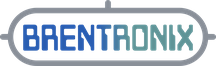
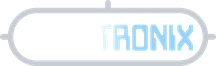
02.02.003: Place the white/light-blue BRENTRONIX set on dark and navy headers
The 25 Nov 10:10 CT whiteblue palette is used only on dark and navy backgrounds.  The black menustrip pill and the PipeCAD merge header pill sit on #000 / #1f3a5f with the outline-only whiteblue pill and light-grey / light-blue byline colours.  App icons, marks, light-background art, and print-on-white files stay on the navy/teal pack.  Revision 02.02.003_261125, service-worker cache masd-field-report-02-02-003.

diff --git a/index.html b/index.html
@@ -3,7 +3,7 @@
 <head>
 <meta charset="utf-8">
 <meta name="viewport" content="width=device-width,initial-scale=1,viewport-fit=cover">
-<title>ModuLaser MASD — Field Report 02.02.002</title>
+<title>ModuLaser MASD — Field Report 02.02.003</title>
 <meta name="description" content="Offline commissioning worksheet for Edwards ModuLaser Modular Aspirating Smoke Detector installations.">
 <link rel="manifest" href="manifest.json">
 <meta name="theme-color" content="#0b0e12">
@@ -287,8 +287,8 @@ body{--sb:250px;--rp:310px}
 .menustrip{display:flex;align-items:center;gap:14px;padding:3px 12px;background:#000;color:#fff;border-bottom:1px solid #2a3441;min-height:32px}
 .bx-brand{display:flex;align-items:center;gap:8px;margin-left:12px;min-width:0}
 .bx-pill{height:22px;width:auto;display:block}
-.bx-meta{display:flex;flex-direction:row;flex-wrap:wrap;gap:6px;font-size:9px;line-height:1.2;color:#8A9099;white-space:nowrap}
-.bx-tag{color:#4F9F9F}
+.bx-meta{display:flex;flex-direction:row;flex-wrap:wrap;gap:6px;font-size:9px;line-height:1.2;color:#C8CDD4;white-space:nowrap}
+.bx-tag{color:#9CD3F5}
 .rt .rt-bx{height:28px;width:auto;margin-left:auto}
 
 .brand{display:flex;align-items:center;gap:8px;font-weight:700;font-size:13px;white-space:nowrap}
@@ -3017,6 +3017,7 @@ AMENDMENTS.push({ rev: "000", major: "02", minor: "01", date: "261016", desc: "P
 AMENDMENTS.push({ rev: "000", major: "02", minor: "02", date: "261019", desc: "Harmonized with Battery Calculator 02.02.000; Report: part-number basis dialog on brand mismatch, ASD-160 sheet (PipeCAD limits, Remote config levels, transport +20 %, benchmark test point), FACU checkbox under the FACU field. <b>Brand selector (Edwards | Kidde Commercial)</b> — project-level, first in Project information; part numbers, supply labels, BOM, logos and report titles follow the brand; the remembered default seeds new projects. Per-sheet supply <b>variant</b> (120 V / 220–230 V / ULC), tamper and seismic accessories, and <b>FACU powers these ASDs</b> with a power-source prompt (in-house / third-party / unidentified; unidentified makes the sheet Incomplete). <b>ASD-160 (Micra25 / Senator 25)</b> rows in the ASD table: 250 mA, dedicated AUX circuit, networked address 1–127, PipeCAD .pl import (MICRA25), Remote configuration, UL/non-UL alarm-factor rules (1.28 cap on UL SFD/OAP, R-AF7). Battery 12V6A5 (7.2 Ah) is manual-only with a too-small advisory. AUX/ribbon rules: max 4 AUX per power supply; each ribbon run holds max 4 detectors + 1 display; a detector-started run counts that detector; hybrid clusters may have any number of runs; own-AUX modules are not runs. Help revised with current screenshots; new printable Quick Start (Help ▸ Print Quick Start). MLP 1.6.0, engine 1.2.0. Unidentified power source rolls fully to ⚠ Incomplete: blank “Power source identified” item on every power supply sheet, amber banner with Identify power source…, carried from design.psus[].powerSource on import. Help, How do I and FAQ topics: brand, part-number basis, ASD-160 commissioning, FACU power source. About lists Edwards and Kidde Commercial, MiniLaser and ASD-160. `src/rp-0202.js` is an exact copy of the inline layer (tested); the old assembler is retired. Unidentified power source rolls fully to ⚠ Incomplete: blank “Power source identified” item on every power supply sheet, amber banner with Identify power source…, carried from design.psus[].powerSource on import. Help, How do I and FAQ topics: brand, part-number basis, ASD-160 commissioning, FACU power source. About lists Edwards and Kidde Commercial, MiniLaser and ASD-160. `src/rp-0202.js` is an exact copy of the inline layer (tested); the old assembler is retired. Unidentified power source rolls fully to ⚠ Incomplete: blank “Power source identified” item on every power supply sheet, amber banner with Identify power source…, carried from design.psus[].powerSource on import. Help, How do I and FAQ topics: brand, part-number basis, ASD-160 commissioning, FACU power source. About lists Edwards and Kidde Commercial, MiniLaser and ASD-160. `src/rp-0202.js` is an exact copy of the inline layer (tested); the old assembler is retired. Unidentified power source rolls fully to ⚠ Incomplete: blank “Power source identified” item on every power supply sheet, amber banner with Identify power source…, carried from design.psus[].powerSource on import. Help, How do I and FAQ topics: brand, part-number basis, ASD-160 commissioning, FACU power source. About lists Edwards and Kidde Commercial, MiniLaser and ASD-160. `src/rp-0202.js` is an exact copy of the inline layer (tested); the old assembler is retired." });
 AMENDMENTS.push({ rev: "001", major: "02", minor: "02", date: "261020", desc: "Harmonized with Battery Calculator 02.02.001 / Toolbox 00.03.001. <b>SFD/OAP design target</b> (Brent 2026-10-20 6:39–6:49 AM CT: “SFD/OAP for Engineering Toolbox must be revised from 2.5% obs/ft to 2.0% obs/ft. Make this the target for any UL-driven SFD or OAP requirement. FM and other non-UL targets can remain at 2.5% obs/ft. Allow toolbox a means of adjusting the default % obs/ft to different values for SFD for baseline configurations that apply project-wide but remain within the published limits of the respective detector.” · “UL limit is 1.71% to 2.18%. Target 2.0% for practical purposes.” · “Adjustable for FM too.” · “Allow per-Area/Group overrides too.” · “Yes, for projects requiring UL compliance. All others can remain at 2.5% by default.” · “Reject it with a message.” · “Yes, require a reference and initials.” · “Fold it into 02.02.001.”): the SFD/OAP design target is 2.0 %obs/ft for UL-driven scopes and 2.5 %obs/ft for FM and other standards; adjustable project-wide and per Area/Group (UL and FM), within each detector's published limits (UL: ModuLaser and MiniLaser 1.70–2.18; FM: ModuLaser and MiniLaser ≤2.50, ASD-160 ≤3.5; the ASD-160 UL 1.28 cap always governs). Out-of-range or non-numeric entries are rejected with a message, never clamped; a non-default target needs a reference and the engineer's initials. On UL scopes the SFD Fire 1 seed follows the target; otherwise it stays 2.5. Pass/fail is unchanged (UL Open Area 1.70–2.18 %obs/ft, ≤43 s; FM 3230 ≤2.50, ≤120 s). Older projects adopt the default with a one-time notice. modulaser-project.js 1.6.1. The Report reads the target and limits from the linked design; MiniLaser, ASD-160 and hole pass/fail are unchanged. The Rev10 legacy sheet is unchanged (its FM 2.50 / UL 1.70–2.18 text is reference only). Then (Brent 2026-10-20 7:09 AM CT): “Keep 1.70, per the manual” (UL lower limit unchanged) and “Yes, follow the target”: the MiniLaser alarm-factor rule for SFD and OAP now uses the scope's SFD/OAP target (Area/Group override → project → default; UL default 2.0, FM default 2.5) instead of a fixed 2.18 (OAP) / 2.0 (SFD). FM targets accepted up to 2.50 inclusive. modulaser-project.js 1.6.2. QA SFD/OAP delta: a stored out-of-range target (hand-edited or imported) stays flagged and blocks export, but the Fire 1 seed and the MiniLaser alarm factor use the nearest published limit instead; the one-time notice also shows in the Calculator and the Report; the Report validates the target against the linked design's device kinds (an FM project with only ASD-160s may use up to 3.5 without a false deficiency). modulaser-project.js 1.6.3." });
 AMENDMENTS.push({ rev: "002", major: "02", minor: "02", date: "261109", desc: "Harmonized with Battery Calculator 02.02.002 / Toolbox 00.03.002. Assumed-display badge and Confirm / Replace / Not installed actions (MLP 1.7.1: same-named floors in one .pl keyed ‘ #2’, ‘ #3’…; the .pl Displays gate counts each such floor separately). Field Change / As-Built uses job-local time zone (project.timeZone). Schema v1." });
+AMENDMENTS.push({ rev: "003", major: "02", minor: "02", date: "261125", desc: "White/light-blue BRENTRONIX set on dark and navy headers (25 Nov 2026, 10:10 AM CT).  The black menustrip pill and the PipeCAD merge header pill sit on #000 / #1f3a5f with the outline-only whiteblue pill and light-grey / light-blue byline colours.  App icons, marks, light-background art, and print-on-white files stay on the navy/teal pack.  Service-worker cache masd-field-report-02-02-003." });
 TYPES.min = 'Minimum Display Module'; TYPE_SHORT.min = 'Min Display';
 const TYPE_FROM_DESIGN = { 'Detector': 'det', 'Standard Display': 'std', 'Minimum Display': 'min', 'Command Display': 'cmd', 'MiniLaser': 'ml' };
 const TYPE_TO_DESIGN = { det: 'Detector', std: 'Standard Display', min: 'Minimum Display', cmd: 'Command Display', oth: 'Other', ml: 'MiniLaser' };

diff --git a/pl-merge.html b/pl-merge.html
@@ -28,8 +28,8 @@ button,input{font:inherit;color:inherit}
 .bar-in{max-width:960px;margin:0 auto;padding:10px 16px;display:flex;flex-wrap:wrap;gap:8px 14px;align-items:center}
 .bx-logo{height:32px;width:auto;display:block}
 .bx-head{flex:1 1 260px;min-width:0}
-.bx-meta{font-size:10px;color:#A0A6AE;margin-top:2px}
-.bx-tag{color:#4DBCB0;margin-left:6px}
+.bx-meta{font-size:10px;color:#C8CDD4;margin-top:2px}
+.bx-tag{color:#9CD3F5;margin-left:6px}
 .bar h1{font-size:15px;margin:0;font-weight:700;flex:1 1 260px}
 .bar h1 small{display:block;font-weight:500;opacity:.8;font-size:12px}
 .bar a{color:#fff;font-size:13px;font-weight:600}

diff --git a/sw.js b/sw.js
@@ -1,6 +1,6 @@
 // Edwards ModuLaser MASD Field Report — service worker
 // Bump CACHE_NAME whenever the app shell changes so clients pick up the update.
-const CACHE_NAME = 'masd-field-report-02-02-002';
+const CACHE_NAME = 'masd-field-report-02-02-003';
 const SHELL = [
   './',
   './index.html', './pl-merge.html',

diff --git a/tests/rp_0202_test.py b/tests/rp_0202_test.py
@@ -16,7 +16,7 @@ async def main():
     ok('How do I: brand, ASD-160, power source', all(any(k in t for t in h['q']) for k in ['change the brand','commission an ASD-160','power source not identified']))
     ok('FAQ: part-number basis, +20 %, Incomplete after FACU', all(any(k in t for t in h['q']) for k in ['part-number basis','20 % over PipeCAD','Incomplete after unticking FACU']))
     ok('About: Edwards + Kidde Commercial, MiniLaser, ASD-160, MLP 1.7.1', all(k in h['about'] for k in ['Kidde Commercial','MiniLaser','ASD-160','1.7.1']), h['about'])
-    ok('title/app name follow the brand, rev 02.02.002', h['title'].startswith('Edwards ModuLaser MASD') and '02.02.002' in h['title'] and h['app'].startswith('Edwards'), [h['title'],h['app']])
+    ok('title/app name follow the brand, rev 02.02.003', h['title'].startswith('Edwards ModuLaser MASD') and '02.02.003' in h['title'] and h['app'].startswith('Edwards'), [h['title'],h['app']])
     r=await pg.evaluate("""(()=>{const p={label:'PS-1',model:'BPS6A',loc:'Riser',ckt:'1'}; state.project=state.project||{}; delete state.project.powerSource; const a=evalPsu(p);
       state.project.powerSource='unidentified'; const u=evalPsu(p); renderAll(); const bn=document.getElementById('psrcBanner');
       const out=[a.it.some(i=>i.label==='Power source identified'), u.auto, u.final, u.secs.id, u.it.slice(-1)[0].label, !!bn && !bn.hidden && bn.textContent.includes('\u26a0 Incomplete')];

diff --git a/tests/minilaser_report_test.py b/tests/minilaser_report_test.py
@@ -29,7 +29,7 @@ async def main():
     pg.on('pageerror', lambda e: errs.append(str(e)))
     await pg.goto(APP); await pg.evaluate('localStorage.clear()'); await pg.reload(); await pg.wait_for_timeout(600)
     v = await pg.evaluate('[fullRev(), MLP.VERSION, document.title]')
-    ok('revision 02.02.002_261109, MLP 1.7.1', v[0] == '02.02.002_261109' and v[1] == '1.7.1' and '02.02.002' in v[2], v)
+    ok('revision 02.02.003_261125, MLP 1.7.1', v[0] == '02.02.003_261125' and v[1] == '1.7.1' and '02.02.003' in v[2], v)
     # QA F1 (M p.66 pipe limits) and F5 (40% flow wording)
     r = await pg.evaluate("""()=>{ const mk=(app,h,fl)=>({type:'ml',desc:'ML',cfg:{app,af:'2',flowLevel:fl},perf:{holes:String(h)},t:{},io:{}});
       const row=(m,re)=>evalMl(m).it.find(i=>re.test(i.label));

diff --git a/CHANGELOG.md b/CHANGELOG.md
@@ -12,6 +12,9 @@ this file from it rather than hand-editing both. Per-release summaries are in
 
 ## 02.02 — 2026-10-19
 
+### 02.02.003 — 2026-11-25
+- **White/light-blue BRENTRONIX set on dark and navy headers (25 Nov 2026, 10:10 AM CT).** The black menustrip pill and the PipeCAD merge header pill sit on `#000` / `#1f3a5f` with the outline-only whiteblue pill and light-grey / light-blue byline colours.  App icons, marks, light-background art, and print-on-white files stay on the navy/teal pack.  Service-worker cache `masd-field-report-02-02-003`.
+
 ### 02.02.001 — 2026-10-20 (local build, not released)
 - **SFD/OAP design target (Brent 2026-10-20).** 2.0 %obs/ft for UL-driven SFD/OAP, 2.5 %obs/ft for FM and other standards. Set in the MASD Engineering Toolbox (Config ▸ Performance Criteria), project-wide and per Area/Group override (UL and FM), validated against each detector's published limits (UL: ModuLaser / MiniLaser 1.70–2.18; FM: ≤2.50, ASD-160 ≤3.5; ASD-160 UL 1.28 cap governs). Out-of-range entries are rejected with a message (never clamped); a non-default target needs a reference and the engineer's initials. On UL scopes the SFD Fire 1 seed follows the target; otherwise 2.5. UL and FM pass/fail unchanged. Older projects adopt the default with a one-time notice. Shared module modulaser-project.js 1.6.1. Brent's words are in the in-app Revision Log.
 - **MiniLaser alarm factor follows the SFD/OAP target (Brent 2026-10-20 7:09 AM CT, “Yes, follow the target”).** SFD and OAP alarm factors are derived against the scope's target (Area/Group override → project → default: UL 2.0, FM 2.5) instead of the fixed 2.18 (OAP) / 2.0 (SFD). “Keep 1.70, per the manual”: UL lower limit unchanged. FM targets up to 2.50 inclusive. modulaser-project.js 1.6.2.

diff --git a/RELEASE_NOTES.md b/RELEASE_NOTES.md
@@ -10,6 +10,10 @@ Live site: [masdtools.net](https://masdtools.net) (served from the
 
 ---
 
+## v02.02.003 — White/light-blue BRENTRONIX headers (2026-11-25)
+
+The black menustrip pill and the PipeCAD merge header pill use the white/light-blue BRENTRONIX set on `#000` / `#1f3a5f`, with no pill fill.  App icons, marks, light-background art, and print-on-white files stay on the navy/teal pack.  Service-worker cache is `masd-field-report-02-02-003`.
+
 ## v02.02.001 — SFD/OAP design target (2026-10-20) · not released
 
 ### Recent improvements
